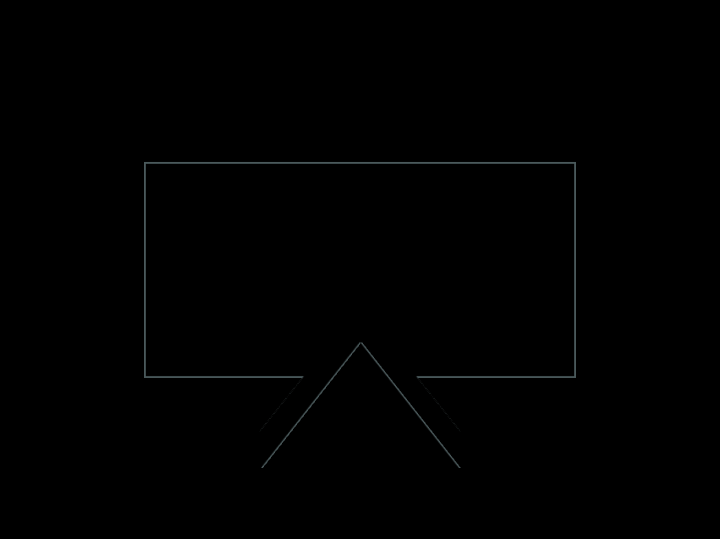
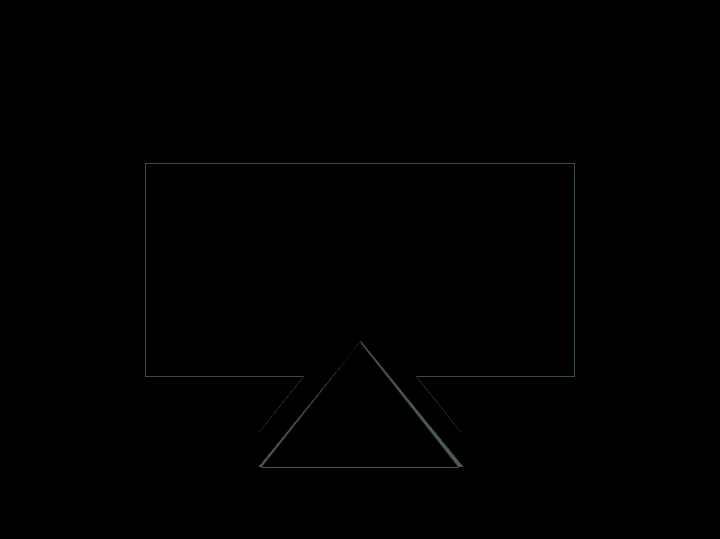
Score: 597.62, Characters: 289 (99.90% match) - CSSHub

diff --git a/Daily Targets/2026-10-25/README.md b/Daily Targets/2026-10-25/README.md
@@ -24,7 +24,7 @@ Challenge: <https://cssbattle.dev/play/Y5ONBPIczkMuJt7MUtxP>
 ```html
 <img><style>
   & {
-    border:30px solid#36443B;
+    border:31px solid#36443B;
     margin:60 50;
     background: #809E97;
     *{
@@ -32,8 +32,8 @@ Challenge: <https://cssbattle.dev/play/Y5ONBPIczkMuJt7MUtxP>
       margin:80 36 -65;
       clip-path:polygon(50% 0,100% 100%,0 100%);
       *{
-        margin:20 30 0;
-        padding:35 55;
+        margin:19 27 0;
+        padding:35 57;
         background:#36443B;
       }
 ```
